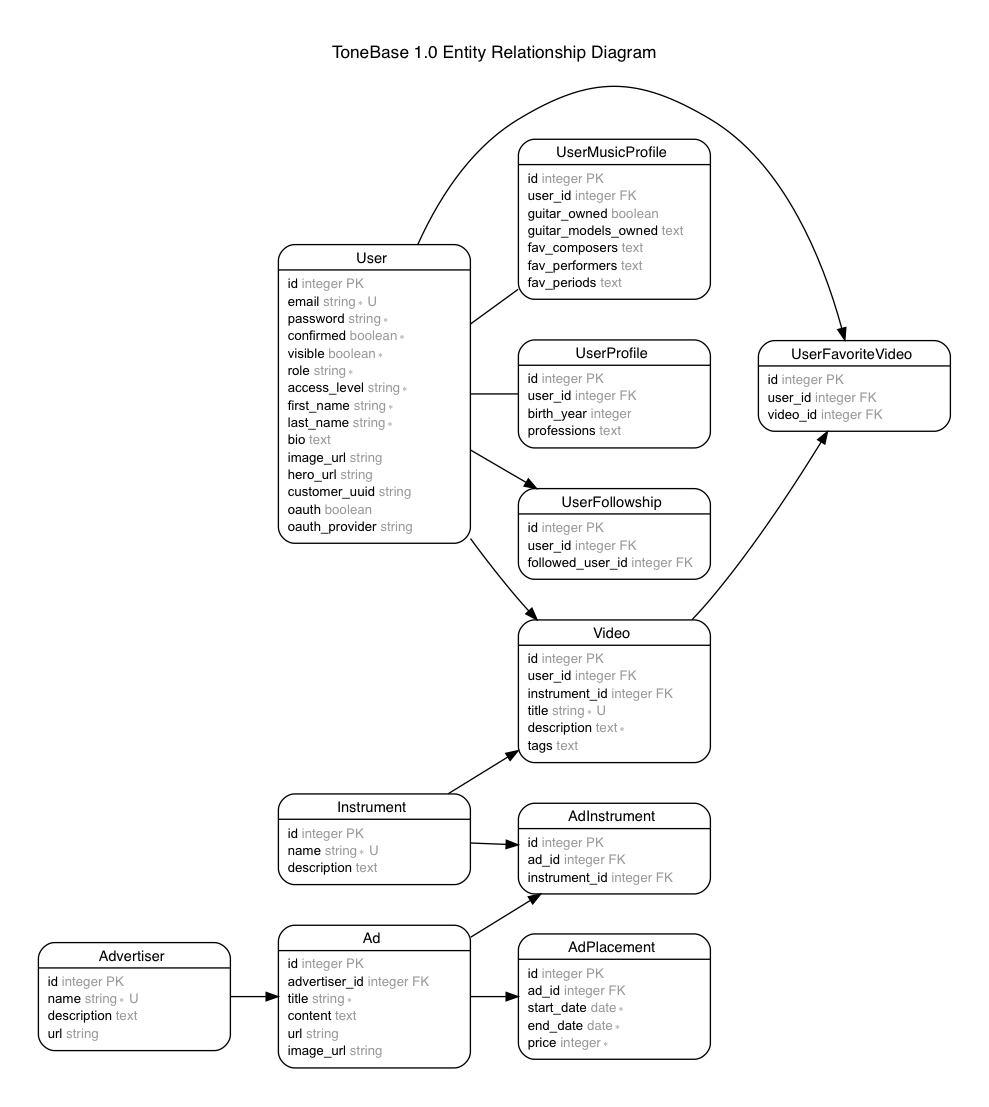
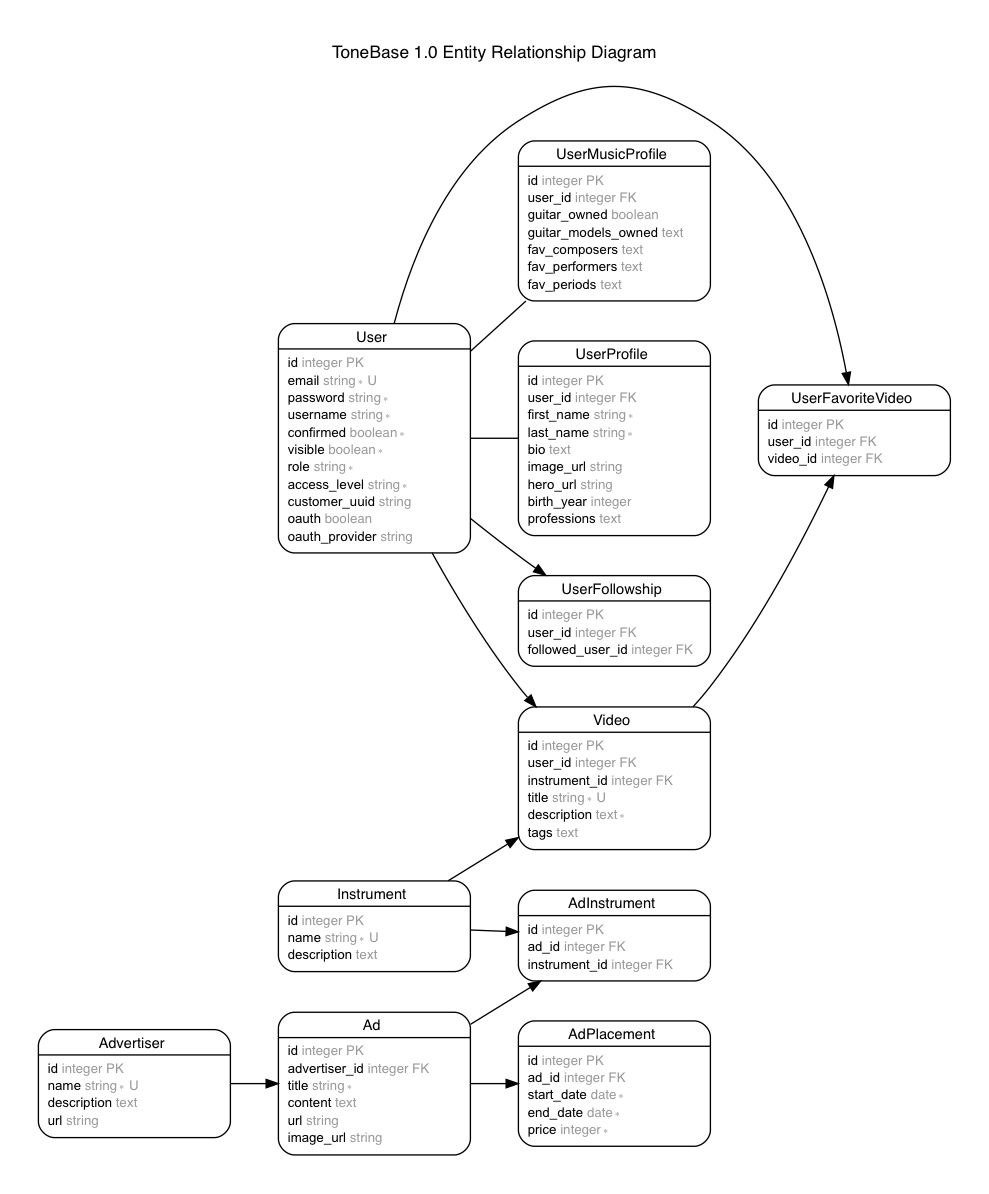
Decompose user model. Wow.

diff --git a/app/models/user.rb b/app/models/user.rb
@@ -7,24 +7,29 @@ class User < ApplicationRecord
   has_many :user_favorite_videos
   has_many :favorite_videos, :through => :user_favorite_videos, :source => :video
 
-  has_one :user_profile, :inverse_of => :user
+  has_one :user_profile, :inverse_of => :user ###, required: true
   alias :profile :user_profile
-  accepts_nested_attributes_for :user_profile
 
-  has_one :user_music_profile, :inverse_of => :user
+  has_one :user_music_profile, :inverse_of => :user ###, required: true
   alias :music_profile :user_music_profile
+
+  accepts_nested_attributes_for :user_profile
   accepts_nested_attributes_for :user_music_profile
+
+  #before_save { build_user_profile unless user_profile }
+  #before_save { build_user_music_profile unless user_music_profile }
+
+  #delegate :image_url, to: :user_profile, allow_nil: true
 
   ROLES = ["User", "Artist", "Admin"]
 
   validates :email, {presence: true, uniqueness: true}
   validates :password, {presence: true}
+  validates :username, {presence: true, uniqueness: true}
   validates :confirmed, {inclusion: {in: [true, false] }}
   validates :visible, {inclusion: { in: [true, false] }}
   validates :role, {presence: true, inclusion: { in: ROLES }}
   validates :access_level, {presence: true, inclusion: { in: ["Full", "Limited"] }}
-  validates :first_name, {presence: true}
-  validates :last_name, {presence: true}
 
   def self.user
     where(:role => "User")
@@ -38,18 +43,22 @@ class User < ApplicationRecord
     where(:role => "Admin")
   end
 
-  def username
-    "#{first_name} #{last_name}" # consider implementing a real, persisted username attribute
-  end
+  # @deprecated
+  #def username
+  #  "#{first_name} #{last_name}" # consider implementing a real, persisted username attribute
+  #end
 
   # Work-around to enable "create" endpoint spec to validate persistance of nested resources!
   def user_profile_attributes
-    #user_profile.serializable_hash(only: [:birth_year, :professions])
-    user_profile.try(:serializable_hash, only: [:birth_year, :professions]) # try because not all users will have a profile (or should they?).
+    user_profile.serializable_hash(only: [:first_name, :last_name, :bio, :image_url, :hero_url, :birth_year, :professions])
   end
 
   # Work-around to enable "create" endpoint spec to validate persistance of nested resources!
   def user_music_profile_attributes
-    user_music_profile.try(:serializable_hash, only: [:guitar_owned, :guitar_models_owned, :fav_composers, :fav_performers, :fav_periods]) # try because not all users will have a music profile (or should they?).
+    user_music_profile.serializable_hash(only: [:guitar_owned, :guitar_models_owned, :fav_composers, :fav_performers, :fav_periods])
+  end
+
+  def image_url
+    profile.try(:image_url) || "https://my-bucket.s3.amazonaws.com/my-dir/some-default-twitter-egg-image.png"
   end
 end

diff --git a/spec/controllers/api/v1/users_controller_spec.rb b/spec/controllers/api/v1/users_controller_spec.rb
@@ -61,20 +61,20 @@ RSpec.describe Api::V1::UsersController, type: :controller do
         {
           email: "avg.joe@gmail.com",
           password: "abc123",
-          # nickname: "joe123",
+          username: "joe123",
           confirmed: true,
           visible: true,
           role: "User",
           access_level: "Full",
-          first_name: "Joe", # move to profile
-          last_name: "Averaggi", # move to profile
-          bio: "I love guitar and I'm hoping to get better!", # move to profile
-          image_url: "https://my-bucket.s3.amazonaws.com/my-dir/my-image.jpg", # move to profile
-          hero_url: "https://my-bucket.s3.amazonaws.com/my-dir/hero-image.jpg", # move to profile
           customer_uuid: "cus_abc123def45678",
           oauth: true,
           oauth_provider: "Google",
           user_profile_attributes:{
+            first_name: "Joe",
+            last_name: "Averaggi",
+            bio: "I love guitar and I'm hoping to get better!",
+            image_url: "https://my-bucket.s3.amazonaws.com/my-dir/my-image.jpg",
+            hero_url: "https://my-bucket.s3.amazonaws.com/my-dir/hero-image.jpg",
             birth_year: 1975,
             professions: ["Student", "Performer", "Instructor"]
           },
@@ -89,7 +89,8 @@ RSpec.describe Api::V1::UsersController, type: :controller do
       }
     end
 
-    it_behaves_like "a create endpoint which validates presence", User, [:email, :password, :role, :access_level, :first_name, :last_name]
+    #it_behaves_like "a create endpoint which validates presence", User, [:email, :password, :role, :access_level, :first_name, :last_name]
+    it_behaves_like "a create endpoint which validates presence", User, [:email, :password, :role, :access_level]
 
     it_behaves_like "a create endpoint which validates uniqueness", User, [:email] do
       let!(:other_user){ create(:user) }
@@ -98,8 +99,9 @@ RSpec.describe Api::V1::UsersController, type: :controller do
   end
 
   describe "PUT #update" do
-    it_behaves_like "an update endpoint", User, {bio: "My updated info."}
-    it_behaves_like "an update endpoint which validates presence", User, [:email, :password, :role, :access_level, :first_name, :last_name]
+    it_behaves_like "an update endpoint", User, {email: "new.email@example.com"}
+    #it_behaves_like "an update endpoint which validates presence", User, [:email, :password, :role, :access_level, :first_name, :last_name]
+    it_behaves_like "an update endpoint which validates presence", User, [:email, :password, :role, :access_level]
     it_behaves_like "an update endpoint which validates uniqueness", User, :email
   end
 

diff --git a/spec/factories/users.rb b/spec/factories/users.rb
@@ -2,15 +2,11 @@ FactoryGirl.define do
   factory :user do
     sequence(:email){|n| "avg.joe.#{n}@gmail.com)" }
     password "abc123"
+    sequence(:username){|n| "joe#{n}" }
     confirmed false
     visible false
     role "User"
     access_level "Limited"
-    first_name "Joe"
-    last_name "Averaggi"
-    bio nil
-    image_url nil
-    hero_url nil
     customer_uuid nil
     oauth nil
     oauth_provider nil
@@ -21,12 +17,6 @@ FactoryGirl.define do
 
     trait :visible do
       confirmed true
-    end
-
-    trait :with_profile do
-      bio "I love guitar and I'm hoping to get better!"
-      image_url "https://my-bucket.s3.amazonaws.com/my-dir/my-image.jpg"
-      hero_url "https://my-bucket.s3.amazonaws.com/my-dir/hero-image.jpg"
     end
 
     trait :with_oauth do
@@ -50,16 +40,16 @@ FactoryGirl.define do
 
     factory :artist, aliases: [:followed_user] do
       sequence(:email){|n| "music.pro.#{n}@gmail.com)" } # optional to put this attribute here, but it provides further clarity and differentiation
-      first_name "Talenti" # optional to put this attribute here, but it provides further clarity and differentiation
-      last_name "Pro" # optional to put this attribute here, but it provides further clarity and differentiation
+      #first_name "Talenti" # optional to put this attribute here, but it provides further clarity and differentiation
+      #last_name "Pro" # optional to put this attribute here, but it provides further clarity and differentiation
       role "Artist"
       access_level "Full"
     end
 
     factory :admin do
       sequence(:email){|n| "tonebase.admin.#{n}@gmail.com)" } # optional to put this attribute here, but it provides further clarity and differentiation
-      first_name "Tony" # optional to put this attribute here, but it provides further clarity and differentiation
-      last_name "Administrato" # optional to put this attribute here, but it provides further clarity and differentiation
+      #first_name "Tony" # optional to put this attribute here, but it provides further clarity and differentiation
+      #last_name "Administrato" # optional to put this attribute here, but it provides further clarity and differentiation
       role "Admin"
       access_level "Full"
     end

diff --git a/spec/models/user_spec.rb b/spec/models/user_spec.rb
@@ -36,22 +36,22 @@ RSpec.describe User, type: :model do
   describe "validations" do
     it { should validate_presence_of(:email) }
     it { should validate_presence_of(:password) }
-    #it { should validate_presence_of(:confirmed) } # doing this would not properly handle false values
-    #it { should validate_presence_of(:visible) } # doing this would not properly handle false values
+    it { should validate_presence_of(:username) }
     it { should validate_presence_of(:role) }
     it { should validate_presence_of(:access_level) }
-    it { should validate_presence_of(:first_name) }
-    it { should validate_presence_of(:last_name) }
 
-    #it { should validate_inclusion_of(:confirmed).in_array([true, false]) } # Warning from shoulda-matchers: You are using `validate_inclusion_of` to assert that a boolean column allows boolean values and disallows non-boolean ones. Be aware that it is not possible to fully test this, as boolean columns will automatically convert non-boolean values to boolean ones. Hence, you should consider removing this test.
-    #it { should validate_inclusion_of(:visible).in_array([true, false]) } # Warning from shoulda-matchers: You are using `validate_inclusion_of` to assert that a boolean column allows boolean values and disallows non-boolean ones. Be aware that it is not possible to fully test this, as boolean columns will automatically convert non-boolean values to boolean ones. Hence, you should consider removing this test.
     it { should validate_inclusion_of(:role).in_array(["User", "Artist", "Admin"]) }
     it { should validate_inclusion_of(:access_level).in_array(["Full", "Limited"]) }
 
-    describe "for uniqueness" do
+    describe "email uniqueness" do
       subject { build(:user) }
       it { should validate_uniqueness_of(:email) }
     end
+
+    #describe "username uniqueness" do
+    #  subject { build(:user) }
+    #  it { should validate_uniqueness_of(:username) }
+    #end
   end
 
   describe "constants" do
@@ -91,4 +91,8 @@ RSpec.describe User, type: :model do
       end
     end
   end
+
+  #describe "delegations" do
+  #  it { should delegate_method(:image_url).to(:user_profile) }
+  #end
 end

diff --git a/db/schema.rb b/db/schema.rb
@@ -97,6 +97,11 @@ ActiveRecord::Schema.define(version: 20170607032648) do
 
   create_table "user_profiles", force: :cascade do |t|
     t.integer  "user_id"
+    t.string   "first_name",  null: false
+    t.string   "last_name",   null: false
+    t.text     "bio"
+    t.string   "image_url"
+    t.string   "hero_url"
     t.integer  "birth_year"
     t.text     "professions"
     t.datetime "created_at",  null: false
@@ -107,15 +112,11 @@ ActiveRecord::Schema.define(version: 20170607032648) do
   create_table "users", force: :cascade do |t|
     t.string   "email",          null: false
     t.string   "password",       null: false
+    t.string   "username",       null: false
     t.boolean  "confirmed",      null: false
     t.boolean  "visible",        null: false
     t.string   "role",           null: false
     t.string   "access_level",   null: false
-    t.string   "first_name",     null: false
-    t.string   "last_name",      null: false
-    t.text     "bio"
-    t.string   "image_url"
-    t.string   "hero_url"
     t.string   "customer_uuid"
     t.boolean  "oauth"
     t.string   "oauth_provider"
@@ -126,6 +127,7 @@ ActiveRecord::Schema.define(version: 20170607032648) do
     t.index ["email"], name: "index_users_on_email", unique: true, using: :btree
     t.index ["oauth"], name: "index_users_on_oauth", using: :btree
     t.index ["role"], name: "index_users_on_role", using: :btree
+    t.index ["username"], name: "index_users_on_username", unique: true, using: :btree
     t.index ["visible"], name: "index_users_on_visible", using: :btree
   end
 

diff --git a/db/migrate/20170602171719_create_users.rb b/db/migrate/20170602171719_create_users.rb
@@ -3,15 +3,11 @@ class CreateUsers < ActiveRecord::Migration[5.0]
     create_table :users do |t|
       t.string :email, null: false
       t.string :password, null: false
+      t.string :username, null: false
       t.boolean :confirmed, null: false
       t.boolean :visible, null: false
       t.string :role, null: false
       t.string :access_level, null: false
-      t.string :first_name, null: false
-      t.string :last_name, null: false
-      t.text :bio
-      t.string :image_url
-      t.string :hero_url
       t.string :customer_uuid
       t.boolean :oauth
       t.string :oauth_provider
@@ -20,6 +16,7 @@ class CreateUsers < ActiveRecord::Migration[5.0]
     end
 
     add_index :users, :email, unique: true
+    add_index :users, :username, unique: true
     add_index :users, :confirmed
     add_index :users, :visible
     add_index :users, :role

diff --git a/app/controllers/api/v1/users_controller.rb b/app/controllers/api/v1/users_controller.rb
@@ -2,10 +2,10 @@ class Api::V1::UsersController < Api::V1::ApiController
   before_action :set_user, only: [:show, :update, :destroy]
 
   PERMITTED_ATTRIBUTES = [
-    :email, :password, :confirmed, :visible, :role, :access_level,
-    :first_name, :last_name, :bio, :image_url, :hero_url,
+    :email, :password, :username,
+    :confirmed, :visible, :role, :access_level,
     :customer_uuid, :oauth, :oauth_provider,
-    user_profile_attributes: [:birth_year, professions:[]],
+    user_profile_attributes: [:first_name, :last_name, :bio, :image_url, :hero_url, :birth_year, professions:[]],
     user_music_profile_attributes: [:guitar_owned, guitar_models_owned:[], fav_composers:[], fav_performers:[], fav_periods:[]]
   ]
 

diff --git a/spec/factories/user_profiles.rb b/spec/factories/user_profiles.rb
@@ -1,14 +1,19 @@
 FactoryGirl.define do
   factory :user_profile do
     user
+    first_name "Joe"
+    last_name "Averaggi"
+    bio nil
+    image_url nil
+    hero_url nil
     birth_year nil
     professions nil
 
-    trait :with_birth_year do
-      birth_year 1975
-    end
-
-    trait :with_professions do
+    trait :full do
+      bio "I love guitar and I'm hoping to get better!"
+      image_url "https://my-bucket.s3.amazonaws.com/my-dir/my-image.jpg"
+      hero_url "https://my-bucket.s3.amazonaws.com/my-dir/hero-image.jpg"
+      birth_year 1993
       professions ["Student", "Performer", "Instructor"]
     end
   end

diff --git a/spec/views/api/v1/users/search_spec.rb b/spec/views/api/v1/users/search_spec.rb
@@ -11,8 +11,8 @@ describe "api/v1/users/search.json.jbuilder" do
     expect(parsed_view.count).to eql(2)
     parsed_view.each do |user|
       expect(keys_of(user)).to match_array([
-        :id, :email, :password, :confirmed, :visible, :role, :access_level,
-        :first_name, :last_name, :bio, :image_url, :hero_url,
+        :id, :email, :password, :username, :confirmed, :visible, :role, :access_level,
+        #:first_name, :last_name, :bio, :image_url, :hero_url,
         :customer_uuid,
         :oauth, :oauth_provider,
         :profile, :music_profile,

diff --git a/spec/views/api/v1/users/index_spec.rb b/spec/views/api/v1/users/index_spec.rb
@@ -11,8 +11,8 @@ describe "api/v1/users/index.json.jbuilder" do
     expect(parsed_view.count).to eql(2)
     parsed_view.each do |user|
       expect(keys_of(user)).to match_array([
-        :id, :email, :password, :confirmed, :visible, :role, :access_level,
-        :first_name, :last_name, :bio, :image_url, :hero_url,
+        :id, :email, :password, :username, :confirmed, :visible, :role, :access_level,
+        #:first_name, :last_name, :bio, :image_url, :hero_url,
         :customer_uuid,
         :oauth, :oauth_provider,
         :profile, :music_profile,

diff --git a/spec/views/api/v1/users/show_spec.rb b/spec/views/api/v1/users/show_spec.rb
@@ -9,8 +9,8 @@ describe "api/v1/users/show.json.jbuilder" do
 
   it "displays a user" do
     expect(keys_of(parsed_view)).to match_array([
-      :id, :email, :password, :confirmed, :visible, :role, :access_level,
-      :first_name, :last_name, :bio, :image_url, :hero_url,
+      :id, :email, :password, :username, :confirmed, :visible, :role, :access_level,
+      #:first_name, :last_name, :bio, :image_url, :hero_url,
       :customer_uuid,
       :oauth, :oauth_provider,
       :profile, :music_profile,

diff --git a/db/migrate/20170607000439_create_user_profiles.rb b/db/migrate/20170607000439_create_user_profiles.rb
@@ -2,6 +2,11 @@ class CreateUserProfiles < ActiveRecord::Migration[5.0]
   def change
     create_table :user_profiles do |t|
       t.references :user, foreign_key: true, index: { unique: true }
+      t.string :first_name, null: false
+      t.string :last_name, null: false
+      t.text :bio
+      t.string :image_url
+      t.string :hero_url
       t.integer :birth_year
       t.text :professions
 
